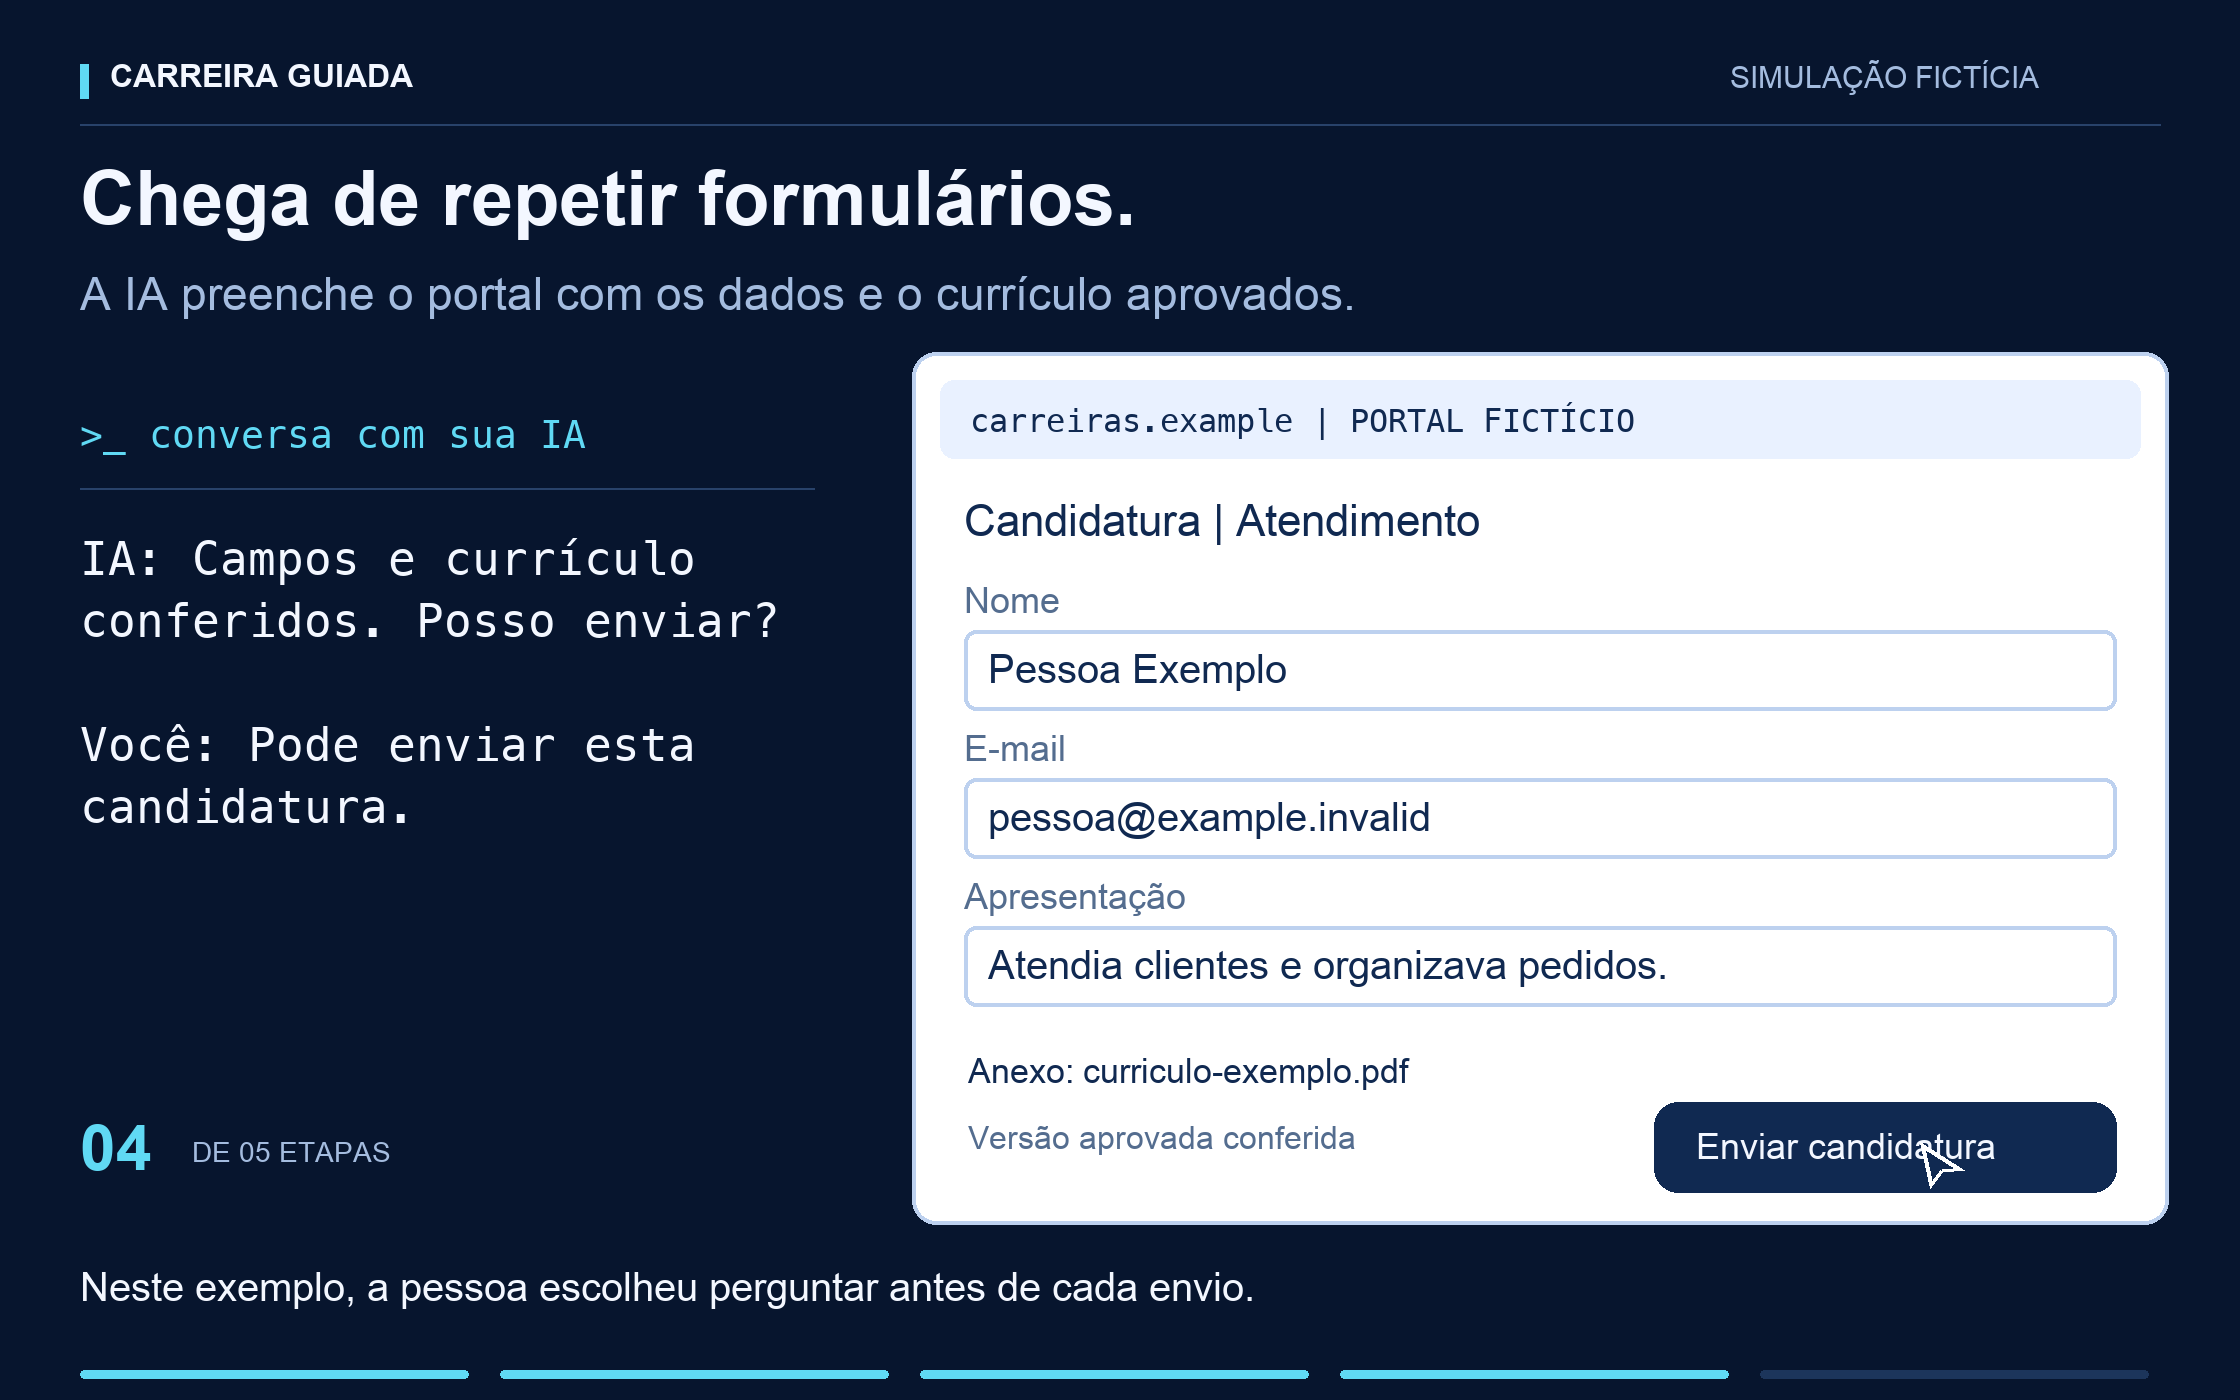
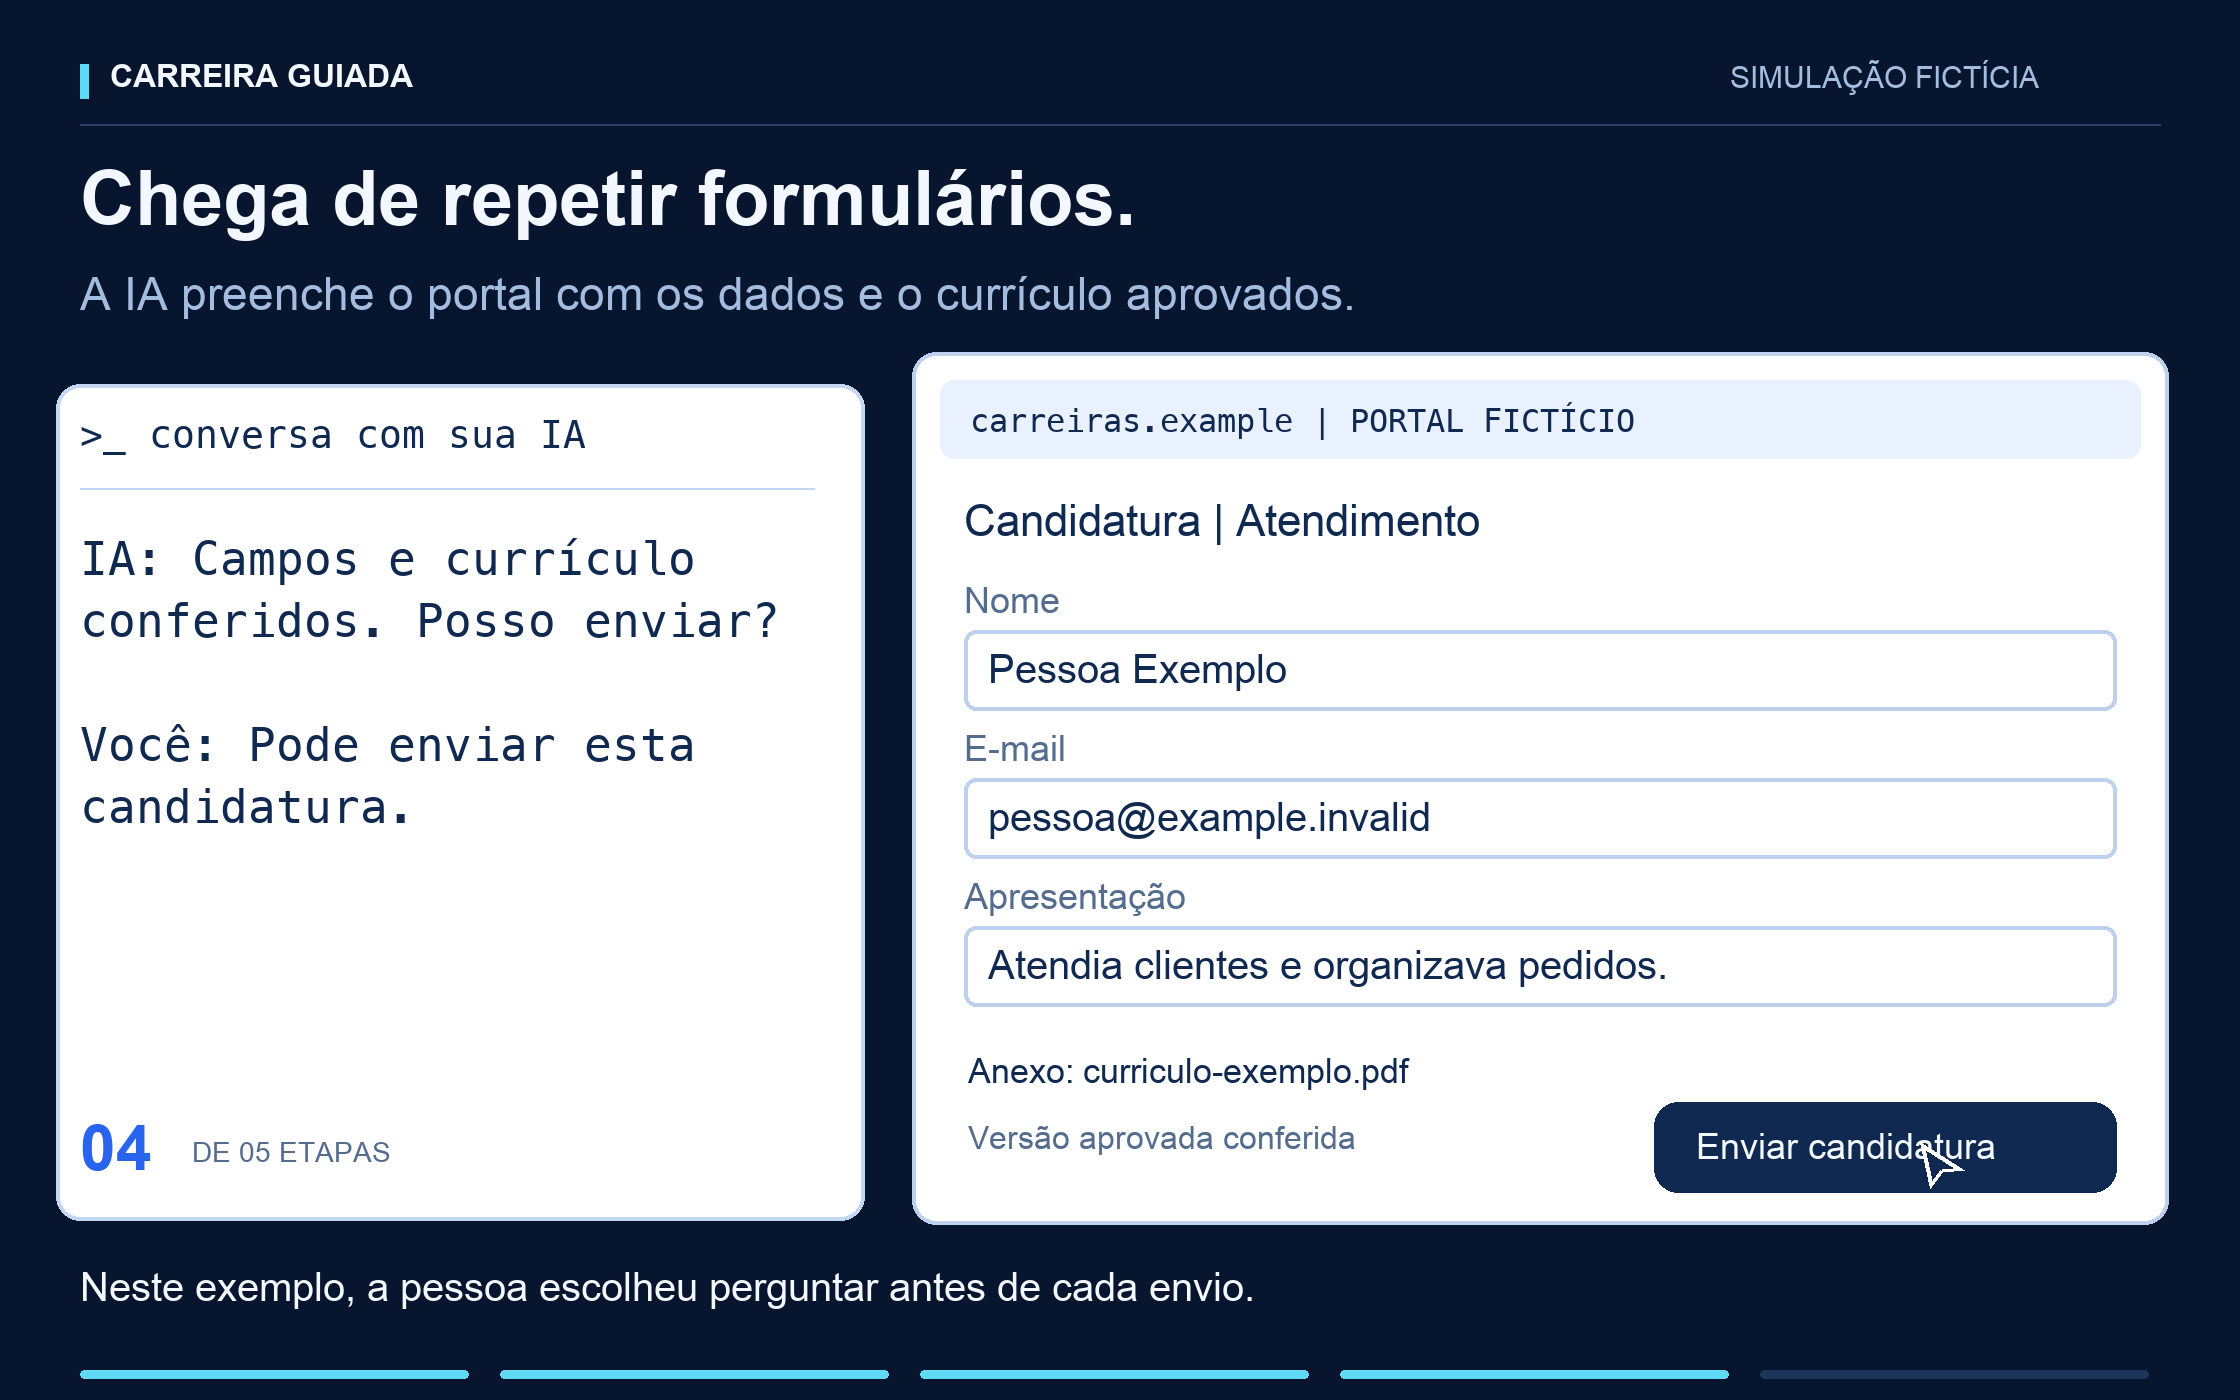
fix: unify terminal colors across demos
Preserve banners, scenes and reading pauses.

Changed region(s): [[0.0, 0.2764, 0.4062, 0.8907]]

diff --git a/scripts/maintainers/render_personal.py b/scripts/maintainers/render_personal.py
@@ -10,6 +10,7 @@ import tempfile
 from PIL import Image
 from playwright.sync_api import sync_playwright
 from rich.console import Console
+from rich.style import Style
 from rich.terminal_theme import TerminalTheme
 from rich.text import Text
 
@@ -18,13 +19,13 @@ from scripts.job.planning import PersonalPlan
 from scripts.job.practice import Practice
 from scripts.job.personal_progress import PersonalProgress
 from scripts.job.terminal import render
-from scripts.maintainers.render_docs import font
+from scripts.maintainers.render_docs import BLUE, INK, LINE, MUTED, font, white_palette
 
 ROOT = Path(__file__).resolve().parents[2]
 OUT = ROOT / 'docs/assets'
-COLORS = [(7, 21, 46), (255, 124, 124), (121, 211, 175), (245, 209, 125),
-          (109, 167, 255), (196, 163, 255), (96, 217, 244), (243, 247, 255)]
-THEME = TerminalTheme((7, 21, 46), (243, 247, 255), COLORS, COLORS)
+COLORS = [(16, 41, 81), (180, 35, 24), (20, 108, 67), (143, 94, 0),
+          (40, 100, 237), (123, 63, 180), (40, 100, 237), (16, 41, 81)]
+THEME = TerminalTheme((255, 255, 255), (16, 41, 81), COLORS, COLORS)
 
 
 class Terminal:
@@ -79,7 +80,11 @@ def scenes(root):
 def fragment(ansi):
     """Convert actual ANSI text to literal HTML with a readable terminal palette."""
     console = Console(record=True, file=io.StringIO(), width=76, force_terminal=True)
-    console.print(Text.from_ansi(ansi), end='')
+    content = Text.from_ansi(ansi)
+    # ANSI dim is blended toward the background; use the guide's readable gray.
+    content.spans = [span._replace(style=span.style + Style(color=MUTED, dim=False))
+                     if span.style.dim else span for span in content.spans]
+    console.print(content, end='')
     return console.export_html(inline_styles=True, theme=THEME, code_format='{code}')
 
 
@@ -108,12 +113,12 @@ font-size:16px;display:flex;justify-content:space-between;}}
 .note{{color:#a4bcdf}}h1{{position:absolute;left:40px;top:80px;font-size:40px;margin:0;}}
 .subtitle{{position:absolute;left:40px;top:136px;font-size:23px;color:#a4bcdf;margin:0}}
 .terminal{{position:absolute;left:40px;top:192px;width:1040px;height:418px;padding:16px 22px;
-border:1px solid #34557c;border-radius:16px;background:#07152e;color:#f3f7ff;}}
-.prompt{{color:#60d9f4;font:20px Terminal,monospace;height:28px;white-space:pre}}
-.command{{color:#a4bcdf;font:16px Editorial,sans-serif;height:27px;}}
+border:1px solid {LINE};border-radius:16px;background:#ffffff;color:{INK};}}
+.prompt{{color:{BLUE};font:20px Terminal,monospace;height:28px;white-space:pre}}
+.command{{color:{MUTED};font:16px Editorial,sans-serif;height:27px;}}
 pre{{font:20px/23px Terminal,monospace;margin:0;white-space:pre;}}
 .viewport{{height:322px;overflow:hidden}}
-.continuation{{font:16px Editorial,sans-serif;color:#a4bcdf;height:20px;padding-top:2px}}
+.continuation{{font:16px Editorial,sans-serif;color:{MUTED};height:20px;padding-top:2px}}
 .foot{{position:absolute;top:632px;left:40px;color:#a4bcdf;font-size:20px;}}
 .steps{{position:absolute;left:40px;right:40px;top:685px;display:flex;gap:16px}}
 .steps i{{height:4px;flex:1;background:#1c355b;border-radius:2px}}.steps .done{{background:#60d9f4}}
@@ -174,12 +179,12 @@ def main():
         finally:
             browser.close()
     # Share colors across scenes so only changed areas need to be stored.
-    samples = Image.new('RGB', (1120, 350))
     completed = [frame for frame, duration in zip(frames, durations) if duration >= 5000]
+    width, height = frames[0].size
+    samples = Image.new('RGB', (width * 4, height * ((len(completed) + 3) // 4)))
     for index, frame in enumerate(completed):
-        sample = frame.resize((280, 175), Image.Resampling.LANCZOS)
-        samples.paste(sample, ((index % 4) * 280, (index // 4) * 175))
-    palette = samples.quantize(colors=128)
+        samples.paste(frame, ((index % 4) * width, (index // 4) * height))
+    palette = white_palette(samples)
     for index, frame in enumerate(frames):
         frames[index] = frame.quantize(palette=palette, dither=Image.Dither.NONE)
     frames[0].save(OUT / 'plano-evolucao-terminal.gif', save_all=True, append_images=frames[1:],

diff --git a/scripts/maintainers/render_docs.py b/scripts/maintainers/render_docs.py
@@ -41,6 +41,17 @@ def coords(values):
     return tuple(int(value * SCALE) for value in values)
 
 
+def white_palette(image):
+    """Keep white panels white after the GIF encoder's coarse color lookup."""
+    palette = image.quantize(colors=128)
+    colors = palette.getpalette()
+    for offset in range(0, len(colors), 3):
+        if min(colors[offset:offset + 3]) >= 248:
+            colors[offset:offset + 3] = [255, 255, 255]
+    palette.putpalette(colors)
+    return palette
+
+
 def text(draw, position, value, size=20, fill=TEXT, mono=False, bold=False):
     """Draw flat text in logical coordinates, rejecting canvas overflow."""
     face = font(size, mono, bold)
@@ -111,12 +122,13 @@ def frame(tool, command, title, number, conversation, note, cursor=False):
         draw.ellipse(coords((42, y + 6, 50, y + 14)), fill=color if index < number else "#28426a")
         text(draw, (64, y), label, 18, color, bold=index + 1 == number)
     draw.rounded_rectangle(coords((300, 192, 1076, 606)), 16 * SCALE,
-                           fill="#0d2242", outline="#34557c", width=SCALE)
-    text(draw, (324, 212), ">_ " + tool, 19, ACCENT, True)
-    text(draw, (876, 215), "exemplo de terminal", 14, DIM)
-    draw.line(coords((324, 255, 1052, 255)), fill="#28426a", width=SCALE)
+                           fill="#ffffff", outline=LINE, width=SCALE)
+    text(draw, (324, 212), ">_ " + tool, 19, INK, True)
+    text(draw, (876, 215), "exemplo de terminal", 14, MUTED)
+    draw.line(coords((324, 255, 1052, 255)), fill=LINE, width=SCALE)
     y, last = 277, ""
     for value, color in conversation:
+        color = {ACCENT: BLUE, TEXT: INK, DIM: MUTED}[color]
         for line in wrap(draw, value, width=714, size=23):
             if y + 28 > 590:
                 raise ValueError("O texto não cabe no terminal; reduza esta cena.")
@@ -125,7 +137,7 @@ def frame(tool, command, title, number, conversation, note, cursor=False):
             last = line
     if cursor:
         cursor_x = min(1045, 324 + draw.textlength(last, font=font(23, True)) / SCALE + 3)
-        draw.rectangle(coords((cursor_x, y - 26, cursor_x + 2, y - 2)), fill=ACCENT)
+        draw.rectangle(coords((cursor_x, y - 26, cursor_x + 2, y - 2)), fill=BLUE)
     for index, line in enumerate(wrap(draw, note, 1030, 20, mono=False)):
         text(draw, (40, 632 + index * 25), line, 20, TEXT)
     progress_track(draw, number - 1, dark=True)
@@ -140,7 +152,7 @@ def render(name, tool, command, title, scenes, poster=0):
     cursor blinks and reading pauses using a shared 128-color palette.
     """
     frame(tool, command, title, poster + 1, *scenes[poster]).save(OUT / (name + ".png"))
-    palette = frame(tool, command, title, 1, *scenes[0]).quantize(colors=128)
+    palette = white_palette(frame(tool, command, title, 1, *scenes[0]))
     frames, durations = [], []
 
     def append(number, conversation, note, duration, cursor=False):

diff --git a/scripts/maintainers/render_journeys.py b/scripts/maintainers/render_journeys.py
@@ -3,7 +3,7 @@
 from PIL import Image
 
 from render_docs import OUT, SIZE, SCALE, INK, MUTED, TEXT, ACCENT
-from render_docs import coords, font, text, wrap, backdrop, progress_track, BLUE, LINE, DIM
+from render_docs import coords, font, text, wrap, backdrop, progress_track, BLUE, LINE, DIM, white_palette
 
 
 def box(draw, bounds, fill, outline=None, radius=12):
@@ -52,14 +52,15 @@ def base(title, subtitle, number, message, progress, note):
     image, draw = backdrop(dark=True)
     text(draw, (40, 78), title, 38, TEXT, bold=True)
     text(draw, (40, 134), subtitle, 23, DIM)
-    text(draw, (40, 206), ">_ conversa com sua IA", 19, ACCENT, True)
-    draw.line(coords((40, 244, 407, 244)), fill="#28426a", width=SCALE)
+    box(draw, (28, 192, 432, 610), "#ffffff", LINE)
+    text(draw, (40, 206), ">_ conversa com sua IA", 19, INK, True)
+    draw.line(coords((40, 244, 407, 244)), fill=LINE, width=SCALE)
     visible = message[:max(1, int(len(message) * min(1, progress * 2)))]
-    end = paragraph(draw, (40, 266), visible, 374, 23)
+    end = paragraph(draw, (40, 266), visible, 374, 23, INK)
     if end > 550:
         raise ValueError("A conversa ultrapassou a área de leitura.")
-    text(draw, (40, 556), f"0{number + 1}", 32, ACCENT, bold=True)
-    text(draw, (96, 568), "DE 05 ETAPAS", 14, DIM)
+    text(draw, (40, 556), f"0{number + 1}", 32, BLUE, bold=True)
+    text(draw, (96, 568), "DE 05 ETAPAS", 14, MUTED)
     for index, line in enumerate(wrap(draw, note, 1030, 20, mono=False)):
         text(draw, (40, 632 + index * 25), line, 20, TEXT)
     progress_track(draw, number, progress, dark=True)
@@ -251,7 +252,7 @@ def render(name, draw_frame, poster):
     samples = Image.new("RGB", (SIZE[0] * 5, SIZE[1]))
     for stage in range(5):
         samples.paste(draw_frame(stage, 1), (stage * SIZE[0], 0))
-    palette = samples.quantize(colors=128)
+    palette = white_palette(samples)
     frames, durations = [], []
     for stage in range(5):
         timeline = [(i / 32, 100, True) for i in range(33)]
